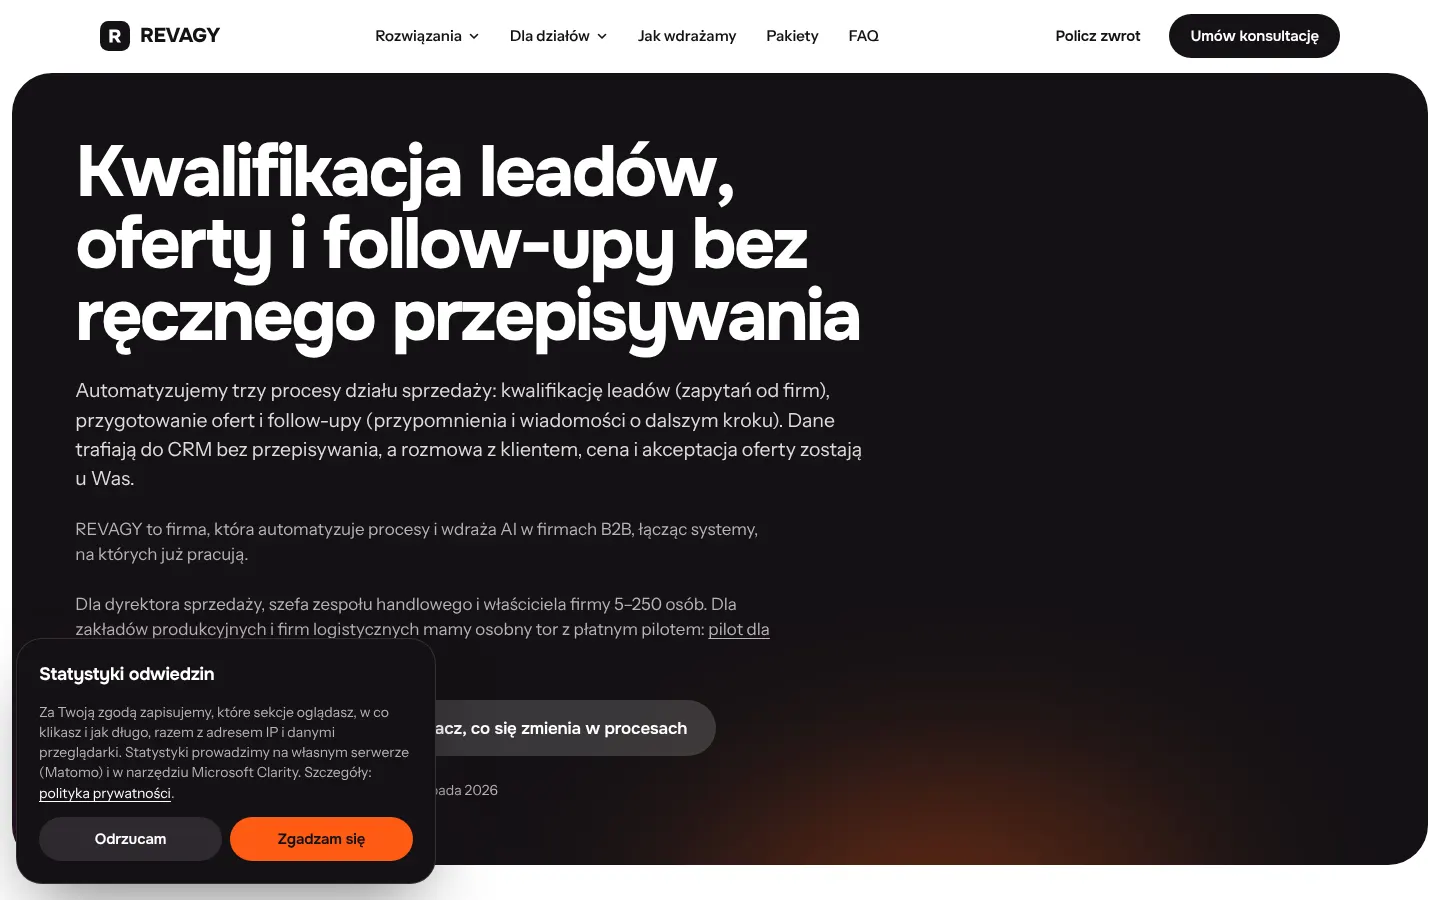
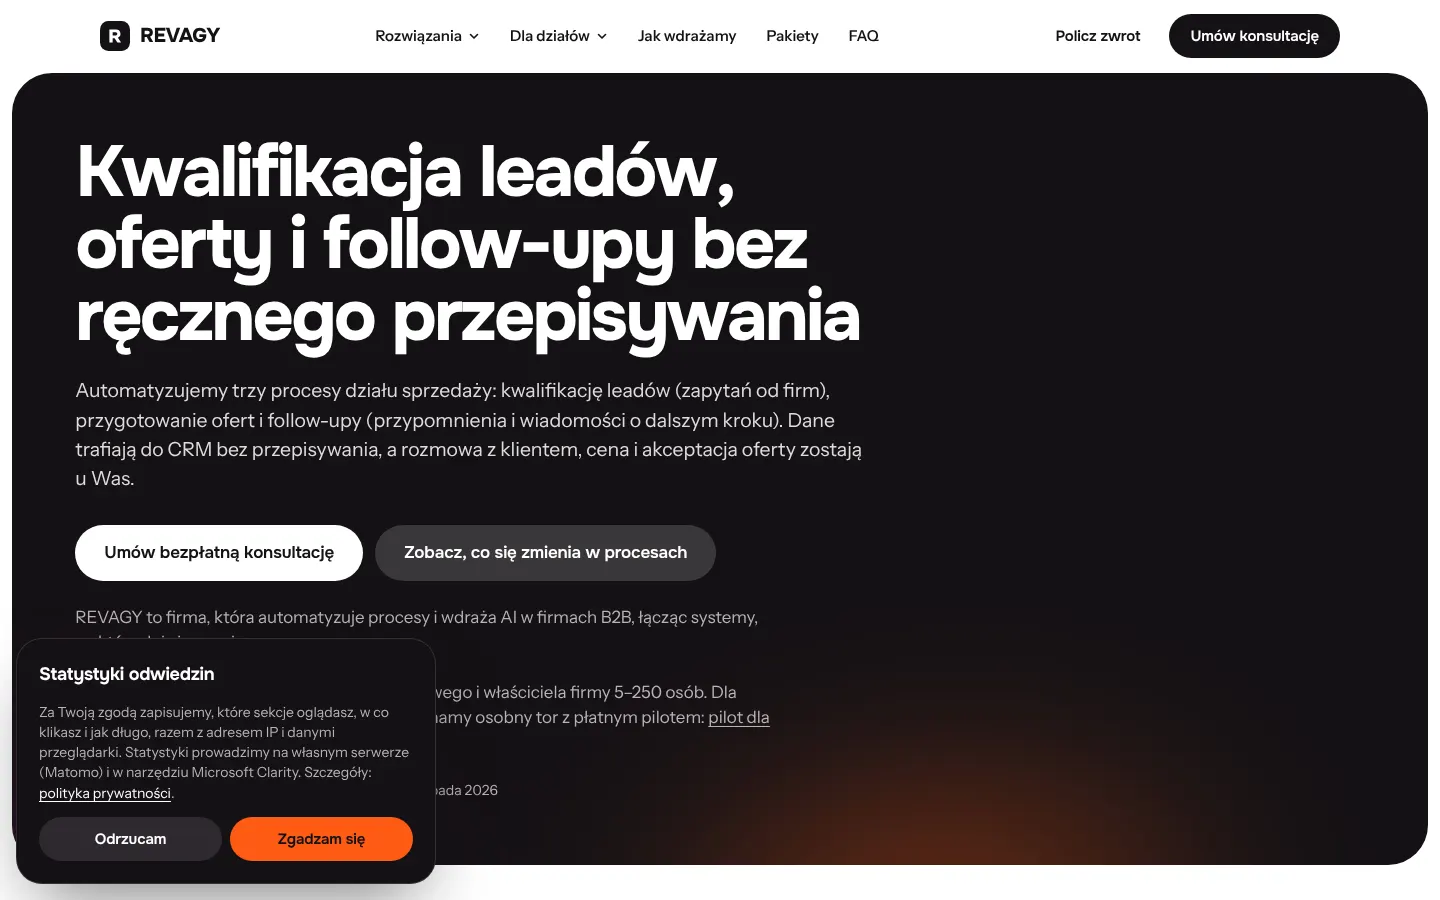
T-037: karta i dowody po poprawkach z przeglądu PR #49
Claude-Session: https://claude.ai/code/session_01DT4mkiEMDc47BAngWxnHiF

Changed region(s): [[0.0312, 0.56, 0.5312, 0.7156], [0.2812, 0.7467, 0.5312, 0.84]]

diff --git a/kono-state/tasks/T-037-kierunek-a-a3-sceny-pierwszego-ekranu.md b/kono-state/tasks/T-037-kierunek-a-a3-sceny-pierwszego-ekranu.md
@@ -10,7 +10,7 @@ branch: skibiai/trusting-shannon-g9jhj1
 base: main (682e99d)
 depends_on: T-033 (A1), T-036 (A2)
 pr: https://github.com/dskibickikono-lang/RevAGY/pull/49
-sha: 1e23375 (sceny), ab260d4 (dowody i karta)
+sha: 1e23375 (sceny), ab260d4 (dowody i karta), fd30500 (poprawki po przeglądzie)
 decisions: [D-015, D-021, D-031, D-048]
 ---
 
@@ -62,13 +62,47 @@ decisions: [D-015, D-021, D-031, D-048]
 Kryterium „tytuł i oba przyciski nad zgięciem” niespełnione na finanse i sprzedaz — było niespełnione także przed zmianą
 (trzy akapity nad przyciskami); scena dodaje 27–89 px. Na 7 stronach spełnione. Bez zmiany treści nie da się tego naprawić.
 
+## Poprawki po przeglądzie PR #49 (zaakceptowane przez właściciela 26.11.2026)
+
+1. Finanse i sprzedaż: dwa akapity pomocnicze przeniesione pod przyciski (treść i linki bez zmian).
+2. Wdrożenia: „0 h” — „ręcznego przygotowania raportu zarządu; wcześniej ok. 6 h tygodniowo”; „ok. 5 min”;
+   tytuł „Kandydat w systemie w ok. 5 minut” i wynik „w ok. 5 minut zamiast po ok. 48 godzinach”; 3 wiersze rejestru.
+3. `tools/smoke-test.cjs`, sekcja 8c: oba przyciski pierwszego ekranu finanse i sprzedaz w całości w oknie 360×844
+   i 390×844 (baner zgody ukryty na czas pomiaru; jego zasłanianie raportowane osobno jako UWAGA, nie błąd).
+
+### Przyciski pierwszego ekranu (górna–dolna krawędź w px, okno 844 px, po wczytaniu krojów, baner ukryty)
+
+| Strona | Szer. | Przycisk | main 682e99d | PR przed 4874ba7 | PR po fd30500 |
+|---|---|---|---|---|---|
+| finanse | 360 | 1 | 754–810 | 843–899 | 540–596 |
+| finanse | 360 | 2 | 822–878 | 911–967 | 608–664 |
+| finanse | 390 | 1 | 754–810 | 781–837 | 504–560 |
+| finanse | 390 | 2 | 822–878 | 849–905 | 572–628 |
+| sprzedaz | 360 | 1 | 780–836 | 832–888 | 529–585 |
+| sprzedaz | 360 | 2 | 848–904 | 900–956 | 597–653 |
+| sprzedaz | 390 | 1 | 744–800 | 807–863 | 529–585 |
+| sprzedaz | 390 | 2 | 812–868 | 875–931 | 597–653 |
+
+Kryterium A3 „oba przyciski nad zgięciem” spełnione na wszystkich 9 stronach. Baner zgody zasłania przyciski
+na finanse i sprzedaz w każdej z trzech wersji (P0 z T-026, poza zakresem).
+
+### Testy po poprawkach (Linux, sandbox)
+
+- `npm run check:dist`: 6/6; `dist/index.html` identyczny z wzorcem.
+- `tools/smoke-test.cjs --serve=dist`: 331/331 (319 + 12 nowych kontroli).
+- Ten sam test na buildzie 4874ba7: 7 błędów przycisków zgodnych z tabelą powyżej. Do tego 2 błędy geometrii `#kontakt`
+  na stronie głównej, bo build porównawczy zrobiłem bez publicznego klucza Turnstile (formularz się nie renderuje).
+  Nie wynikają z kodu.
+- Lighthouse, 12 stron lokalnie: progi spełnione; wydajność podstron 98–100, strona główna 72 (próg 65).
+- CI na fd30500: „Build, testy i artefakt wydania” i „Lighthouse podstron” — sukces.
+
 ## Dowody
 
 `kono-state/notes/kierunek-a-a3/`: pierwszy ekran przed (main 682e99d) i po, 9 stron × 1440/390/360 (54 zrzuty),
-`pomiary.json`, `kontrast-najgorszy-piksel.json`.
+`pomiary.json`, `kontrast-najgorszy-piksel.json`, `przyciski-telefon.json` (tabela powyżej). Zrzuty „po” odświeżone po poprawkach.
 
 ## Ryzyka i otwarte
 
 - Baner zgody zasłania przyciski pierwszego ekranu (P0 z audytu T-026), bez zmian w tym etapie.
-- Lighthouse w CI mierzy 4 z 9 stron; w A1 CI pokazało przesunięcie układu, którego lokalny pomiar nie widział.
+- Lighthouse w CI mierzy 3 z 9 stron A3 (finanse, kadry-i-place, sprzedaz); w A1 CI pokazało przesunięcie układu, którego lokalny pomiar nie widział.
 - Poza A3: sceny dowodu na kadry-i-place i produkcja-i-logistyka; poświata strony kontaktu; wczytywanie kroju tytułów z wyprzedzeniem.
